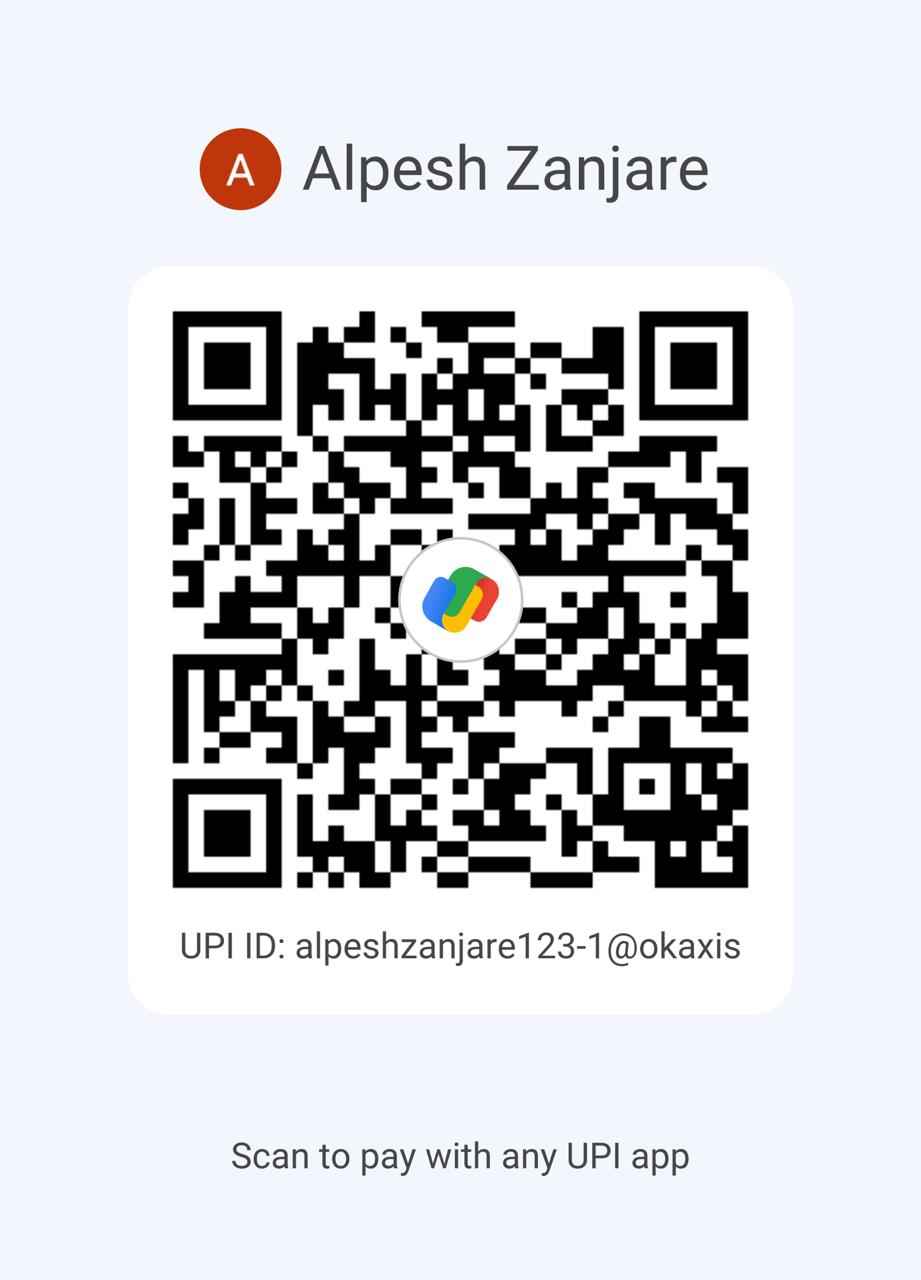
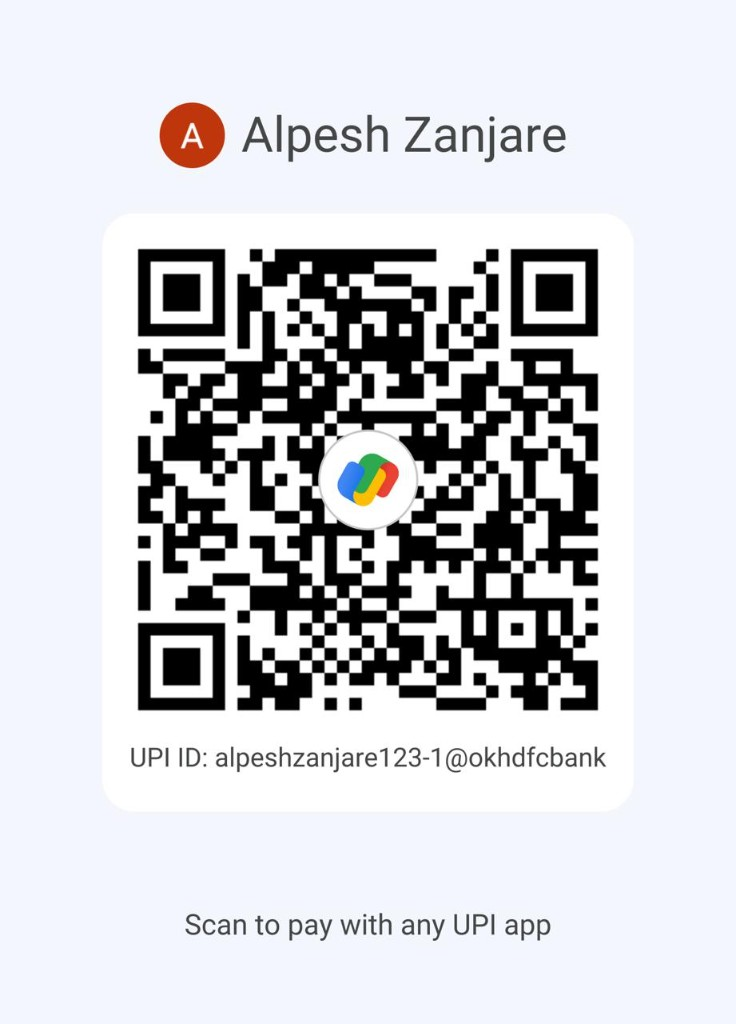
WIP

Changed region(s): [[0.1875, 0.2188, 0.8125, 0.75], [0.5625, 0.2188, 0.6875, 0.3125]]

diff --git a/components/client/checkout-dialog.tsx b/components/client/checkout-dialog.tsx
@@ -6,7 +6,7 @@ import type { CartLine, PaymentMethod } from "@/lib/types";
 import {
   copyText as copyToClipboard,
   getCafeUpiConfig,
-  openMerchantGpayIntent,
+  openGpayWithAmount,
   paiseToUpiAmount,
   startManualGpayFlow,
 } from "@/lib/upi";
@@ -66,10 +66,7 @@ export function CheckoutDialog({
   async function payViaGpaySendMoney() {
     setError(null);
     setPayHint(null);
-    const result = await startManualGpayFlow({
-      vpa: upi.vpa,
-      amountRupees: upiAmount,
-    });
+    const result = await startManualGpayFlow({ vpa: upi.vpa });
     setCopied("both");
     window.setTimeout(() => setCopied(null), 3000);
     if (result === "copy-failed") {
@@ -77,28 +74,31 @@ export function CheckoutDialog({
       return;
     }
     setPayHint(
-      `UPI ID copied. In GPay use Pay → Bank / UPI ID, paste ${upi.vpa}, enter ₹${upiAmount}.`
+      `UPI ID copied. In GPay use Pay → UPI ID, paste, enter ₹${upiAmount}.`
     );
   }
 
-  function tryMerchantAutofill() {
-    if (!upi.hasMerchantMcc || !upi.mcc) {
-      setPayHint(
-        "Your GPay QR has no merchant MCC (mc). Ask Axis / Google Pay Business for the 4-digit MCC, set NEXT_PUBLIC_UPI_MCC, then retry autofill."
-      );
+  function payWithAmountAutofill() {
+    setError(null);
+    setPayHint(null);
+    if (total <= 0) {
+      setError("Cart total is zero — add items before paying.");
       return;
     }
-    setPayHint(null);
-    openMerchantGpayIntent({
-      vpa: upi.vpa,
-      payeeName: upi.payeeName,
-      amountPaise: total,
-      transactionRef: `FB${Date.now().toString(36).toUpperCase()}`,
-      note: `FB ${stationLabel} ${customerName.trim() || "order"}`
-        .replace(/[^\w\s.-]/g, " ")
-        .slice(0, 40),
-      mcc: upi.mcc,
-    });
+    try {
+      openGpayWithAmount({
+        vpa: upi.vpa,
+        payeeName: upi.payeeName,
+        amountPaise: total,
+        transactionRef: `FB${Date.now().toString(36).toUpperCase()}`,
+        note: `FB ${stationLabel} ${customerName.trim() || "order"}`
+          .replace(/[^\w\s.-]/g, " ")
+          .slice(0, 40),
+        mcc: upi.mcc,
+      });
+    } catch (err) {
+      setError(err instanceof Error ? err.message : "Could not open Google Pay");
+    }
   }
 
   useEffect(() => {
@@ -257,7 +257,7 @@ export function CheckoutDialog({
               <PaymentOption
                 selected={method === "upi"}
                 title="UPI"
-                description="Copy UPI ID and pay in Google Pay"
+                description="Pay with Google Pay (amount filled)"
                 onSelect={() => setMethod("upi")}
               />
             </div>
@@ -329,30 +329,25 @@ export function CheckoutDialog({
 
               <ol className="space-y-1.5 rounded-2xl border border-ink/10 bg-panel px-4 py-3 text-sm text-ink/65">
                 <li>
-                  <span className="font-semibold text-ink">1.</span> Tap below —
-                  we copy the UPI ID and open Google Pay
+                  <span className="font-semibold text-ink">1.</span> Tap Pay with
+                  Google Pay — amount should be filled
                 </li>
                 <li>
-                  <span className="font-semibold text-ink">2.</span> Pay → Bank or
-                  UPI ID → paste
+                  <span className="font-semibold text-ink">2.</span> Confirm in
+                  GPay and complete payment
                 </li>
                 <li>
-                  <span className="font-semibold text-ink">3.</span> Enter{" "}
-                  <span className="font-semibold tabular-nums text-ink">
-                    ₹{upiAmount}
-                  </span>{" "}
-                  and pay
+                  <span className="font-semibold text-ink">3.</span> Return here
+                  and tap I&apos;ve paid
                 </li>
               </ol>
 
               <button
                 type="button"
-                onClick={() => void payViaGpaySendMoney()}
+                onClick={payWithAmountAutofill}
                 className="flex w-full cursor-pointer items-center justify-center rounded-2xl bg-accent py-3.5 text-sm font-semibold text-ink transition hover:brightness-95"
               >
-                {copied === "both" || copied === "vpa"
-                  ? "UPI ID copied · Opening GPay…"
-                  : "Copy UPI ID & open Google Pay"}
+                Pay {formatPrice(total)} with Google Pay
               </button>
 
               {payHint ? (
@@ -361,14 +356,13 @@ export function CheckoutDialog({
                 </p>
               ) : (
                 <p className="text-center text-xs text-ink/45">
-                  Auto-fill often fails on Axis with a fake “limit” error — this
-                  uses the Send money path that already works.
+                  Opens GPay with {formatPrice(total)} for {upi.vpa}
                 </p>
               )}
 
               <div className="rounded-2xl border border-ink/10 bg-panel px-3 py-3">
                 <p className="text-[11px] font-medium uppercase tracking-[0.14em] text-ink/40">
-                  Copy manually
+                  If amount shows ₹0 / fails
                 </p>
                 <div className="mt-2 space-y-2">
                   <CopyRow
@@ -385,17 +379,14 @@ export function CheckoutDialog({
                     onCopy={() => void copyText(upiAmount, "amount")}
                   />
                 </div>
+                <button
+                  type="button"
+                  onClick={() => void payViaGpaySendMoney()}
+                  className="mt-3 w-full cursor-pointer rounded-xl border border-ink/12 py-2.5 text-xs font-semibold text-ink/70 transition hover:bg-canvas"
+                >
+                  Copy UPI ID & open GPay (enter amount yourself)
+                </button>
               </div>
-
-              <button
-                type="button"
-                onClick={tryMerchantAutofill}
-                className="w-full text-center text-xs font-medium text-ink/40 underline-offset-2 hover:text-ink/65 hover:underline"
-              >
-                {upi.hasMerchantMcc
-                  ? "Try merchant autofill (amount in GPay)"
-                  : "Why autofill fails (needs merchant MCC)"}
-              </button>
 
               <button
                 type="button"

diff --git a/lib/upi.ts b/lib/upi.ts
@@ -1,17 +1,9 @@
 /**
- * Cafe UPI helpers.
+ * Cafe UPI helpers — Google Pay deep link for same-phone checkout.
  *
- * Decoded from public/payment_qr.jpg:
- *   upi://pay?pa=alpeshzanjare123-1@okaxis&pn=Alpesh%20Zanjare&aid=uGICAgIDVn9rnbg
- *
- * That is a GPay “receive money” QR (pa + pn + aid only). It is NOT a signed
- * NPCI merchant intent (those include mc / mode / orgid / sign). Axis often
- * rejects amount-filled deep links to this style of VPA with a fake “limit”
- * error, while GPay “Pay to UPI ID” (Send money) works.
- *
- * If Axis/Google Pay Business gave you a 4-digit MCC, set NEXT_PUBLIC_UPI_MCC
- * and we can try Google’s merchant intent format:
- * https://developers.google.com/pay/india/api/android/in-app-payments
+ * Latest QR: pa=alpeshzanjare123-1@okhdfcbank (business banking name:
+ * Fallback Gaming Cafe). Prefer amount-filled upi://pay intents; keep a
+ * clipboard fallback if a bank rejects autofill.
  */
 
 export type UpiPayParams = {
@@ -20,7 +12,6 @@ export type UpiPayParams = {
   amountPaise: number;
   transactionRef: string;
   note?: string;
-  /** 4-digit merchant category code from bank / PSP onboarding */
   mcc?: string;
 };
 
@@ -28,17 +19,14 @@ export function getCafeUpiConfig(): {
   vpa: string;
   payeeName: string;
   mcc?: string;
-  /** True when a real MCC is configured — enables merchant intent attempt */
-  hasMerchantMcc: boolean;
 } {
   const mcc = process.env.NEXT_PUBLIC_UPI_MCC?.trim();
   const validMcc = mcc && /^\d{4}$/.test(mcc) ? mcc : undefined;
   return {
-    vpa: process.env.NEXT_PUBLIC_UPI_VPA?.trim() || "alpeshzanjare123-1@okaxis",
+    vpa: process.env.NEXT_PUBLIC_UPI_VPA?.trim() || "alpeshzanjare123-1@okhdfcbank",
     payeeName:
-      process.env.NEXT_PUBLIC_UPI_PAYEE_NAME?.trim() || "Alpesh Zanjare",
+      process.env.NEXT_PUBLIC_UPI_PAYEE_NAME?.trim() || "Fallback Gaming Cafe",
     mcc: validMcc,
-    hasMerchantMcc: Boolean(validMcc),
   };
 }
 
@@ -56,11 +44,14 @@ function encodeParam(value: string, opts?: { keepAt?: boolean }) {
   return encodeURIComponent(value);
 }
 
-function merchantIntentQuery(params: UpiPayParams): string {
+function payQuery(params: UpiPayParams): string {
+  const amount = paiseToUpiAmount(params.amountPaise);
   const tr = params.transactionRef.replace(/[^a-zA-Z0-9]/g, "").slice(0, 35);
   const parts: Array<[string, string]> = [
     ["pa", encodeParam(params.vpa.trim(), { keepAt: true })],
     ["pn", encodeParam(params.payeeName.trim())],
+    ["am", amount],
+    ["cu", "INR"],
   ];
 
   if (params.mcc) parts.push(["mc", params.mcc]);
@@ -69,34 +60,16 @@ function merchantIntentQuery(params: UpiPayParams): string {
   const note = params.note?.trim().replace(/[^\w\s.-]/g, " ").trim().slice(0, 50);
   if (note) parts.push(["tn", encodeParam(note)]);
 
-  parts.push(
-    ["am", paiseToUpiAmount(params.amountPaise)],
-    ["cu", "INR"]
-  );
-
   return parts.map(([k, v]) => `${k}=${v}`).join("&");
 }
 
-/** Open the Google Pay app only (Send money path that already works). */
-export function openGpayApp() {
-  const android =
-    typeof navigator !== "undefined" && /android/i.test(navigator.userAgent);
-
-  if (android) {
-    window.location.href =
-      "intent://pay#Intent;scheme=tez;package=com.google.android.apps.nbu.paisa.user;end";
-    return;
+/** Open GPay with VPA + amount prefilled. */
+export function openGpayWithAmount(params: UpiPayParams) {
+  if (params.amountPaise <= 0) {
+    throw new Error("Amount must be greater than zero");
   }
 
-  window.location.href = "gpay://";
-}
-
-/**
- * Merchant-style amount intent (needs a real 4-digit MCC from your bank/PSP).
- * Without MCC this often fails on Axis with “bank limit exceeded”.
- */
-export function openMerchantGpayIntent(params: UpiPayParams) {
-  const q = merchantIntentQuery(params);
+  const q = payQuery(params);
   const android =
     typeof navigator !== "undefined" && /android/i.test(navigator.userAgent);
 
@@ -110,6 +83,19 @@ export function openMerchantGpayIntent(params: UpiPayParams) {
   window.location.href = `gpay://upi/pay?${q}`;
 }
 
+export function openGpayApp() {
+  const android =
+    typeof navigator !== "undefined" && /android/i.test(navigator.userAgent);
+
+  if (android) {
+    window.location.href =
+      "intent://pay#Intent;scheme=tez;package=com.google.android.apps.nbu.paisa.user;end";
+    return;
+  }
+
+  window.location.href = "gpay://";
+}
+
 export async function copyText(value: string): Promise<boolean> {
   try {
     await navigator.clipboard.writeText(value);
@@ -121,7 +107,6 @@ export async function copyText(value: string): Promise<boolean> {
 
 export async function startManualGpayFlow(opts: {
   vpa: string;
-  amountRupees: string;
 }): Promise<"ok" | "copy-failed"> {
   const copied = await copyText(opts.vpa);
   openGpayApp();
